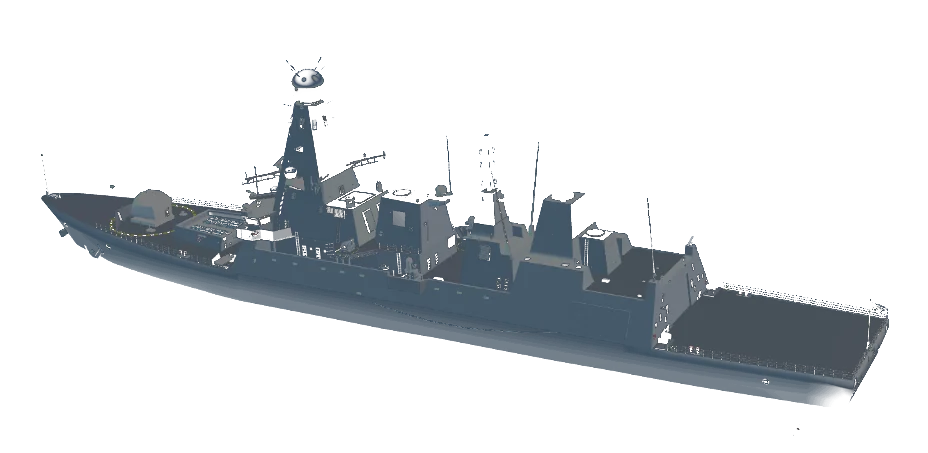
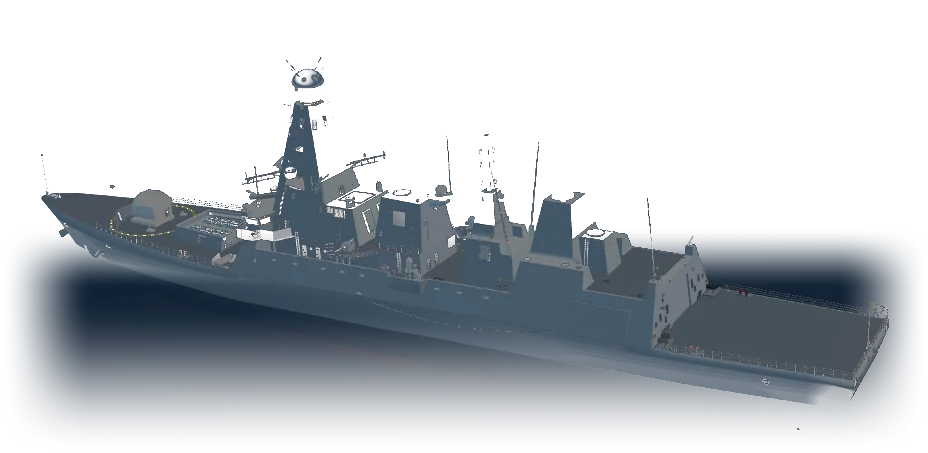
Hero: fix the floating ship's sinking stern
The destroyer is a 3/4 aerial render, so its waterline runs diagonally
(bow high, stern low). The first cutout keyed out ALL the water, which left
the low stern dangling below the flat page waterline with nothing behind it
— it read as sinking.

- Rework the cutout (tools/process-captures.mjs): keep a feathered band of
  the ship's OWN water from the waterline down, so the hull sits in water
  that blends into the page's sea. No sinking stern, no sky-notch under the
  high bow; works on both the light sky and the dark water.
- Sit the ship's waterline on the page waterline (translateY tweak).
- Move the dive handle to the left so it no longer overlaps the ship.

https://claude.ai/code/session_01NgvPV3tnspcfpgdfe2kZAP

Changed region(s): [[0.0, 0.5254, 1.0, 0.9581], [0.6875, 0.7108, 0.7188, 0.7726], [0.2188, 0.5563, 0.25, 0.5872]]

diff --git a/styles.css b/styles.css
@@ -163,7 +163,7 @@ h1, h2, h3, p, figure, dl, dd { margin: 0; }
   opacity: 0.95;
 }
 .dive-handle {
-  position: absolute; top: -13px; right: max(24px, calc((100% - var(--maxw)) / 2 + 24px));
+  position: absolute; top: -13px; left: max(24px, calc((100% - var(--maxw)) / 2 + 24px));
   display: inline-flex; align-items: center; gap: 0.5rem; padding: 0.3rem 0.7rem;
   background: var(--bg-bottom); border: 1px solid color-mix(in srgb, var(--teal) 50%, transparent); border-radius: 999px;
   cursor: pointer; box-shadow: 0 6px 20px rgba(0, 0, 0, 0.25);
@@ -178,9 +178,8 @@ h1, h2, h3, p, figure, dl, dd { margin: 0; }
   position: absolute; z-index: 2; pointer-events: none;
   top: calc(var(--header-h) + var(--sky-h));
   right: max(12px, calc((100% - var(--maxw)) / 2 - 8px));
-  width: min(520px, 50%);
-  transform: translateY(-59%);
-  filter: drop-shadow(0 14px 24px rgba(2, 12, 18, 0.5));
+  width: min(540px, 52%);
+  transform: translateY(-62%); /* sit the ship's waterline on the page waterline */
 }
 .hero-float img { width: 100%; height: auto; display: block; }
 